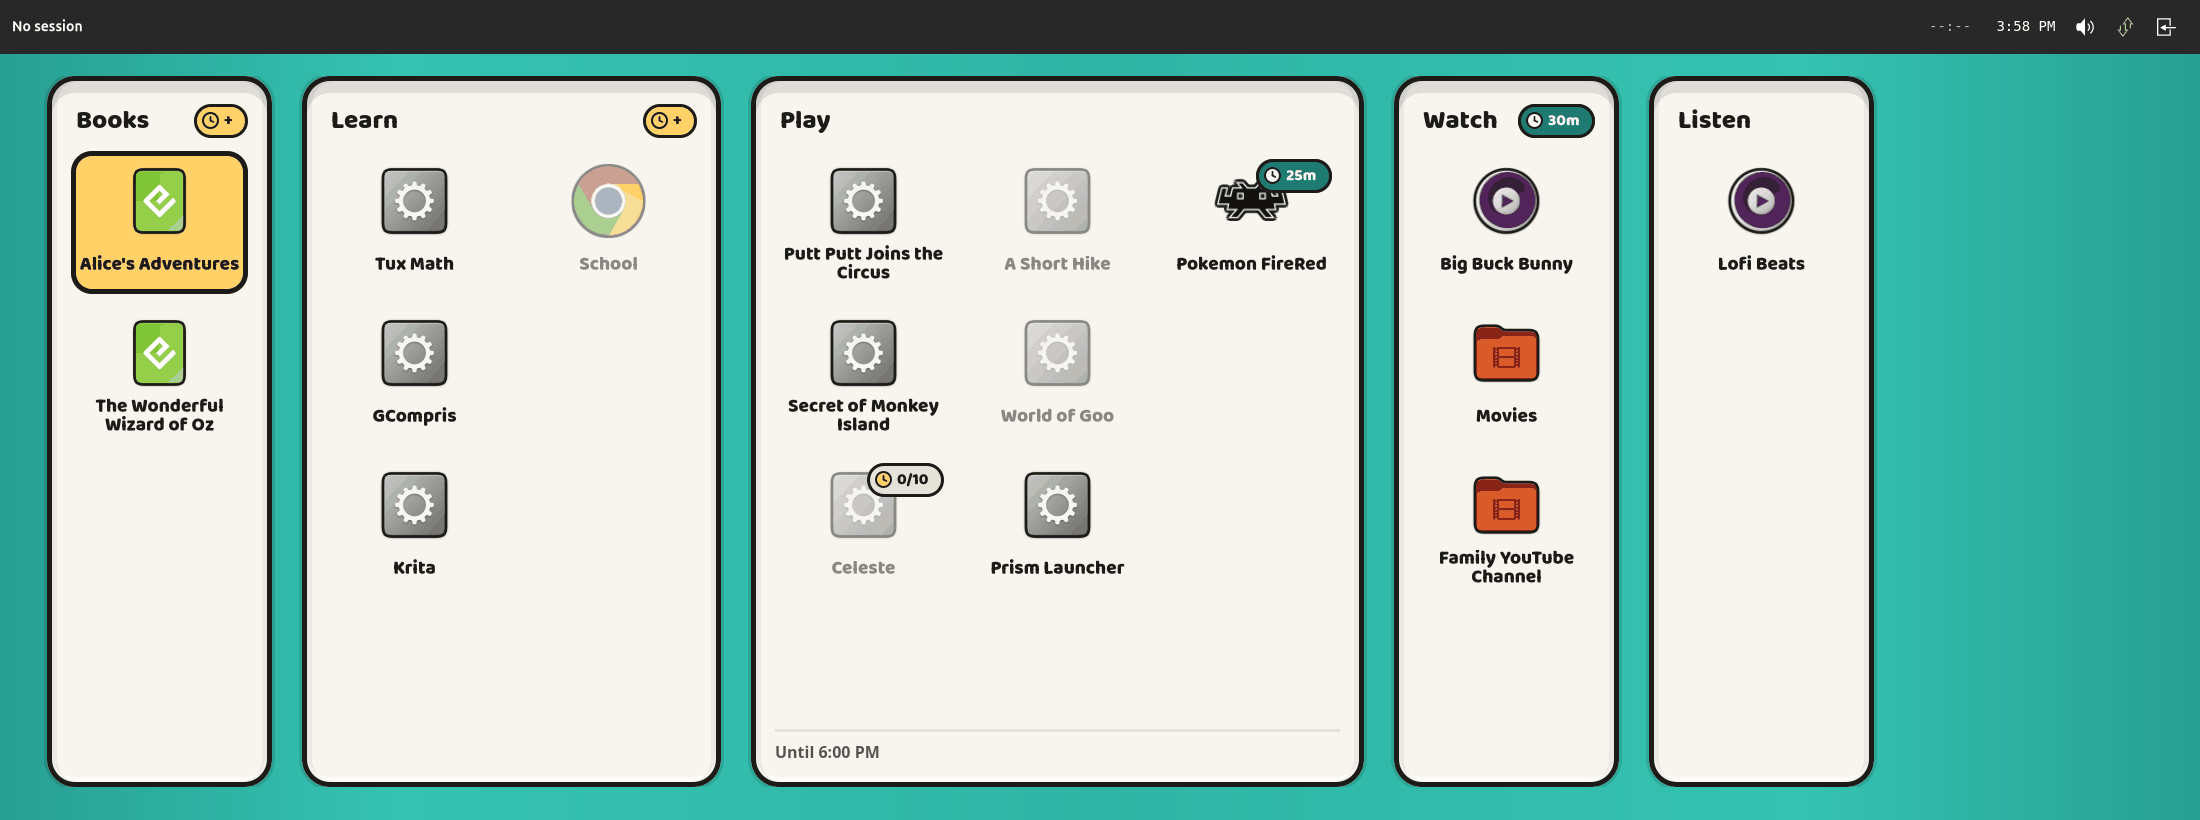
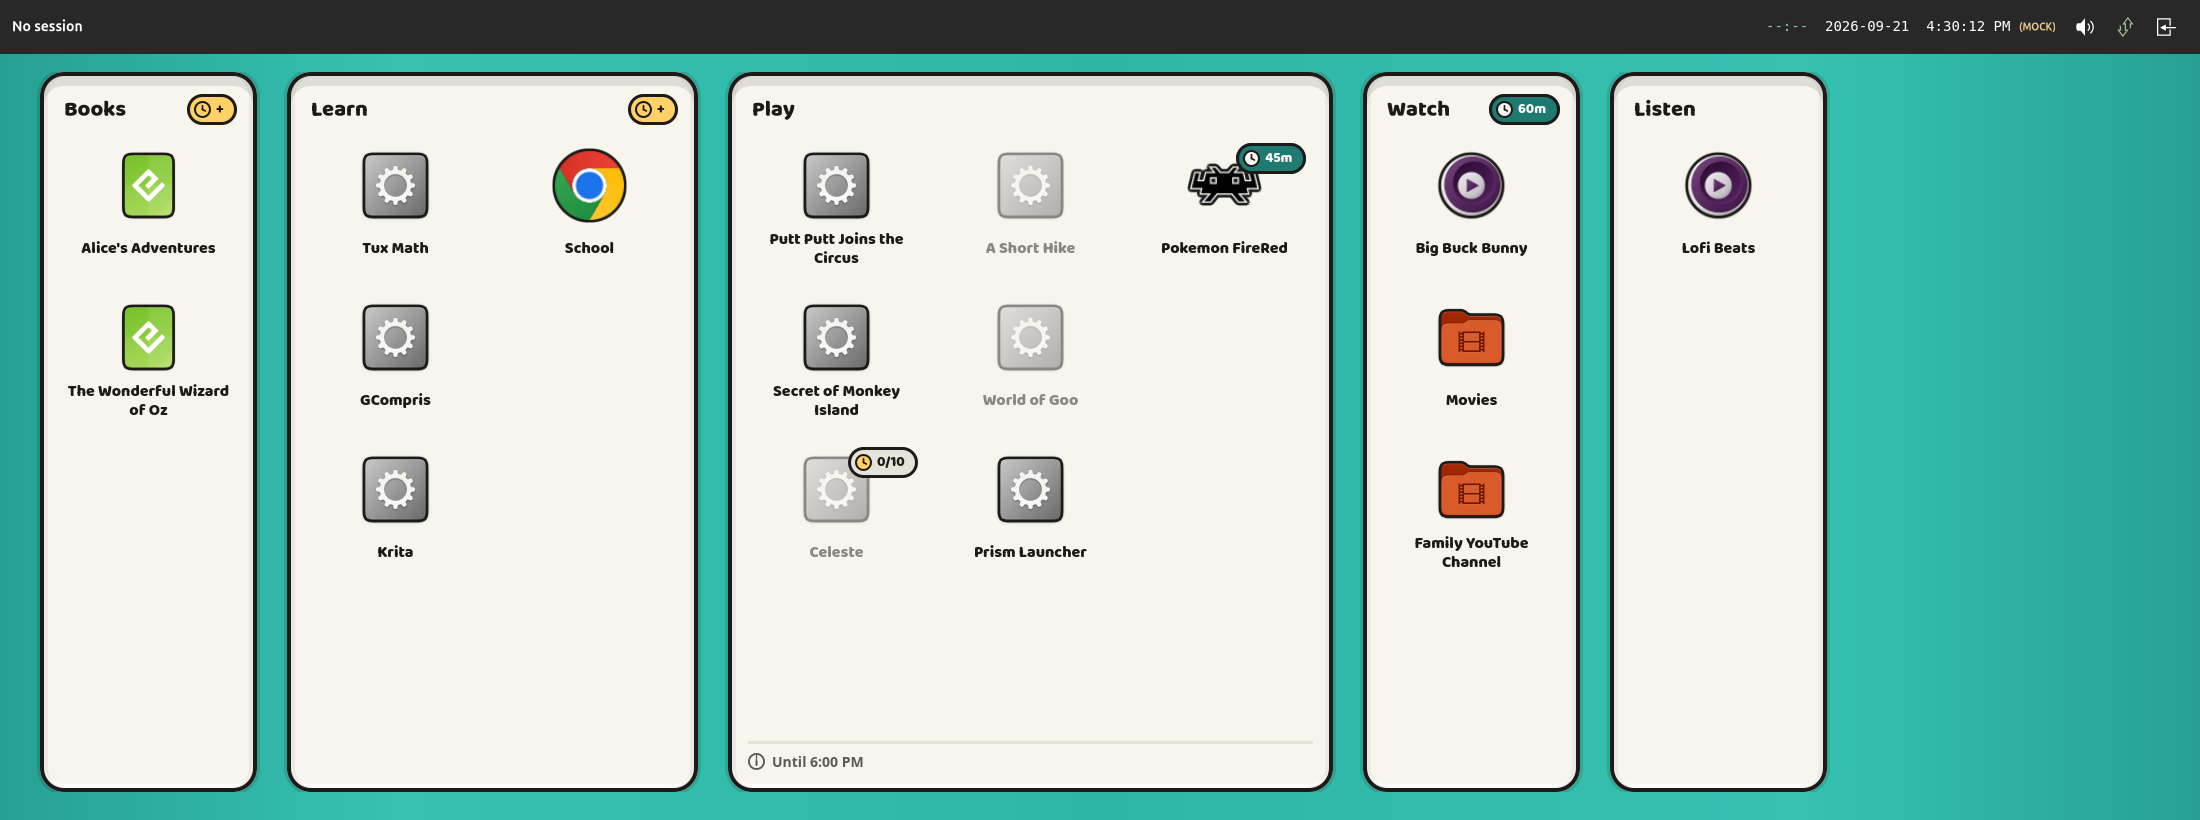
Tell the clock's two hands apart, and reshoot the categories screenshot
Six o'clock is the closing time in half the examples here, and at six the
hands are exactly opposite: two similar hands draw one straight line across
the face, which reads as a crossed-out circle rather than as a clock. The
hour hand is now much the shorter and a little the heavier of the two.

The screenshot in the PR description predates the floor's clock entirely, so
it is retaken at the same size and state.

Claude-Session: https://claude.ai/code/session_01Jxo4ra5Nwmb5fvQz68hDcU

Changed region(s): [[0.0, 0.061, 0.8655, 0.9756], [0.8964, 0.0305, 0.9273, 0.061], [0.8345, 0.0305, 0.8655, 0.061]]

diff --git a/crates/lunchbox-widgets/src/clock_face.rs b/crates/lunchbox-widgets/src/clock_face.rs
@@ -136,8 +136,14 @@ mod imp {
                 cr.line_to(cx + sin * radius * length, cy - cos * radius * length);
                 let _ = cr.stroke();
             };
-            hand(hour_angle, 0.50, rim);
-            hand(minute_angle, 0.78, rim * 0.8);
+            // The hour hand is deliberately much shorter and a little heavier
+            // than the minute hand, rather than the two being near-twins. At
+            // six o'clock — the closing time in half the examples in this
+            // repository — they are exactly opposite, and two similar hands
+            // there draw one straight line across the face, which reads as a
+            // crossed-out circle rather than as a clock.
+            hand(hour_angle, 0.45, rim * 1.1);
+            hand(minute_angle, 0.80, rim * 0.7);
         }
     }
 }

diff --git a/docs/ai/history/2026-09-19 004 launcher-branding (#207).md b/docs/ai/history/2026-09-19 004 launcher-branding (#207).md
@@ -613,6 +613,13 @@ from `type.footer.size` rather than written down, so it reads as a picture
 rather than as one more glyph in the line — which is, in the end, exactly what
 the emoji had been.
 
+One thing only a screenshot found: the hour hand has to be *much* shorter than
+the minute hand, and a little heavier. Six o'clock is the closing time in half
+the examples in this repository, and at six o'clock the hands are exactly
+opposite — two near-twins there draw one straight line across the face, which
+reads as a crossed-out circle rather than as a clock. 0.45 and 0.80 of the
+radius, at 1.1 and 0.7 of the ring's weight.
+
 The HUD's own appearance changed slightly with the move. That is sanctioned:
 the bar is being restyled in #209 anyway, and the reviewer said "roughly".
 
